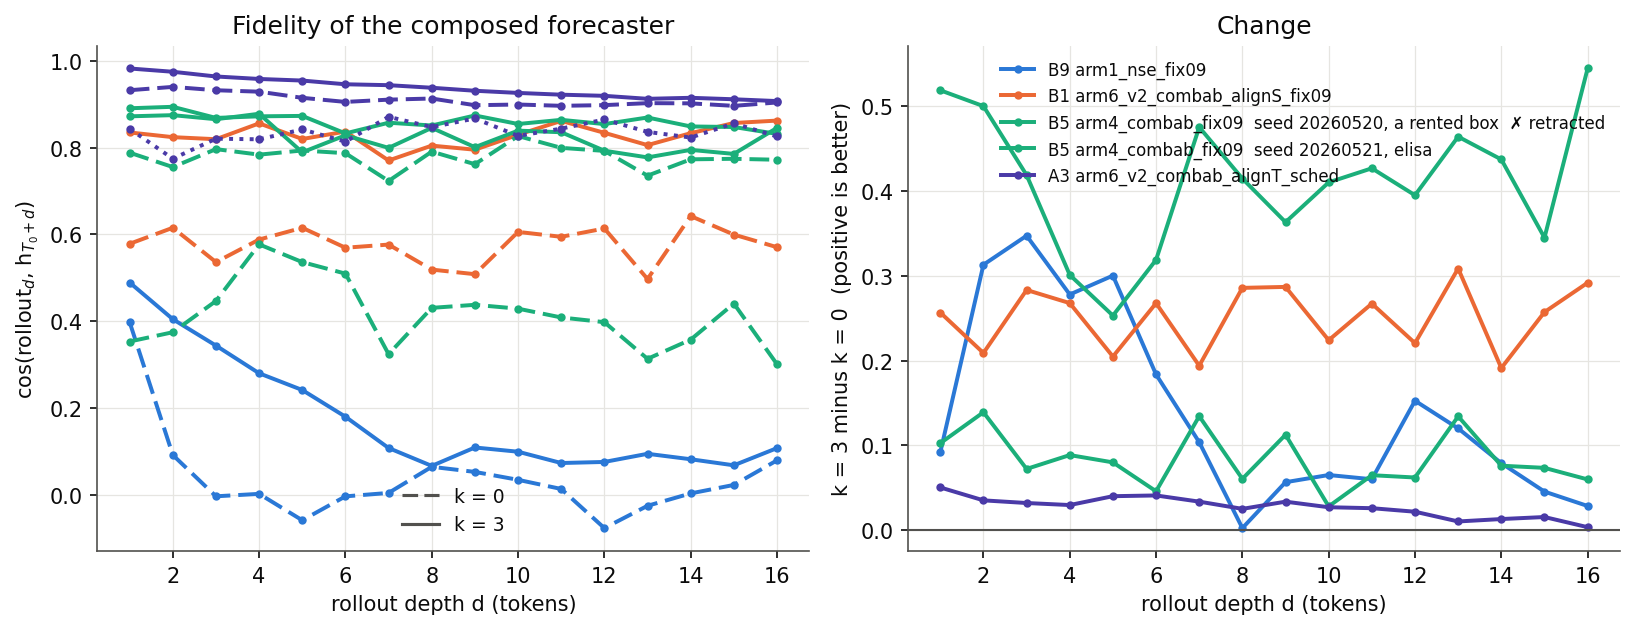
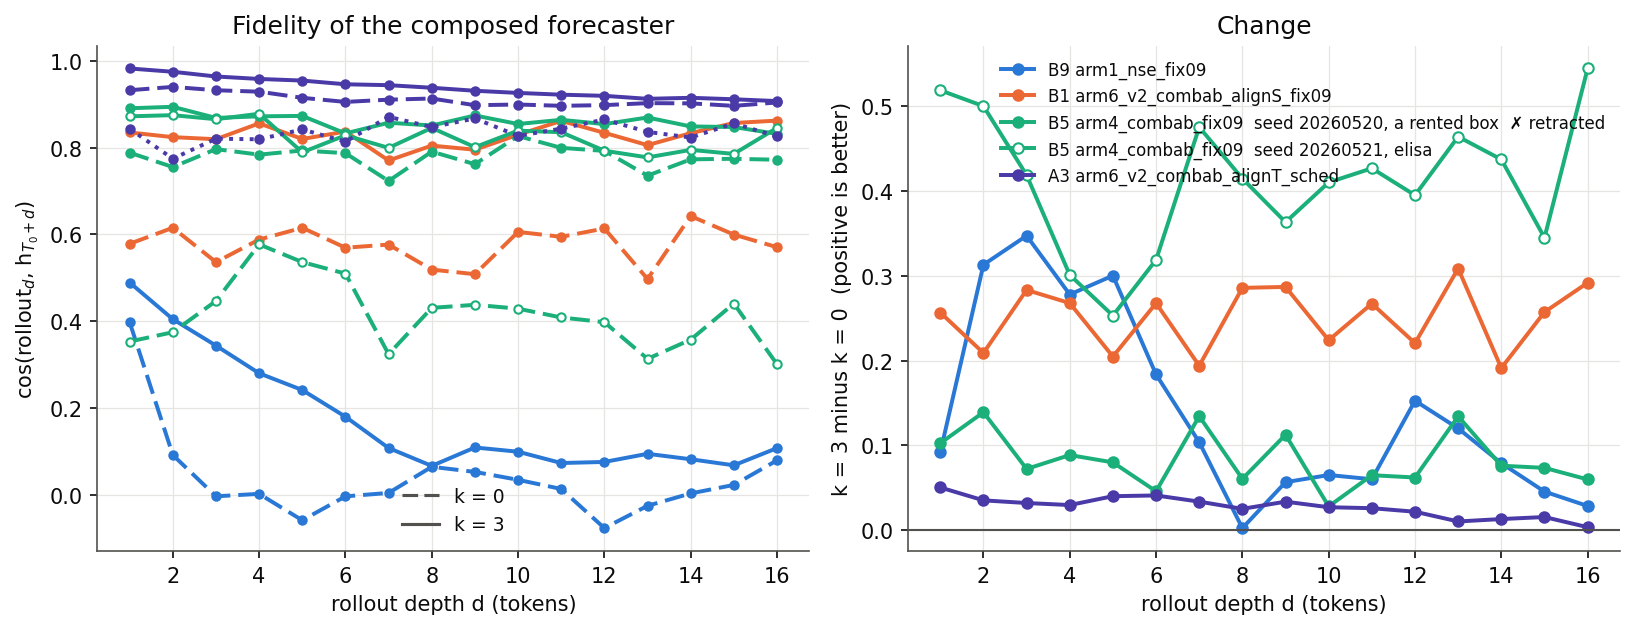
exp(#373): the fidelity figure tells B5's two backbones apart
Three B5 curves share one hue and two of them shared one marker, so the
right-hand panel drew the seed-20260521 line on top of the seed-20260520 one
with nothing to separate them. The fill channel carries the seed here as it
does everywhere else in the report.

Refs #373

diff --git a/reports/2026-08-08_rollout_depth/scripts/plot_rollout_fidelity.py b/reports/2026-08-08_rollout_depth/scripts/plot_rollout_fidelity.py
@@ -63,8 +63,12 @@ def main(argv=None):
         pts.sort()
         xs = [d for d, _v in pts]
         ys = [v for _d, v in pts]
+        # Fill is the backbone seed, as everywhere: B5 draws three curves in
+        # one hue and only the marker tells its second seed from its first.
         axL.plot(xs, ys, color=cc.colour(arm), linestyle=cc.style(k),
-                 linewidth=1.9, marker="o", markersize=3)
+                 linewidth=1.9, marker="o", markersize=4,
+                 markerfacecolor=cc.face(arm),
+                 markeredgecolor=cc.colour(arm))
         pairs[arm][k] = (xs, ys)
 
     for arm in [a for a in R.ARM_ORDER if a in pairs]:
@@ -74,7 +78,9 @@ def main(argv=None):
             mark = "  ✗ retracted" if arm in R.RETRACTED else ""
             axR.plot(xs, [b - a for a, b in zip(byk[0][1], byk[3][1])],
                      color=cc.colour(arm), linewidth=1.9, marker="o",
-                     markersize=3, label=cc.label(arm) + mark)
+                     markersize=5, markerfacecolor=cc.face(arm),
+                     markeredgecolor=cc.colour(arm),
+                     label=cc.label(arm) + mark)
 
     axL.set_xlabel("rollout depth d (tokens)")
     axL.set_ylabel("cos(rollout$_d$, h$_{T_0+d}$)")

diff --git a/reports/2026-08-08_rollout_depth/rollout_depth.md b/reports/2026-08-08_rollout_depth/rollout_depth.md
@@ -183,7 +183,7 @@ magnitude.
 On #379's fixed diagnostic batch, `cos` between the rolled latent and the
 true `h_{t+d}` for `d = 1..16`, with no head in the way. **Every arm improves
 at `k = 3` at every one of the 16 depths, including the two that score
-worse.**
+worse.** The smallest gain is A3's +0.003 and the largest is B5·s2's +0.545.
 
 So the fixed-point approximation is not what failed. The flag does what it
 says: it makes the model better at consuming its own output. On A3 and B5 a
